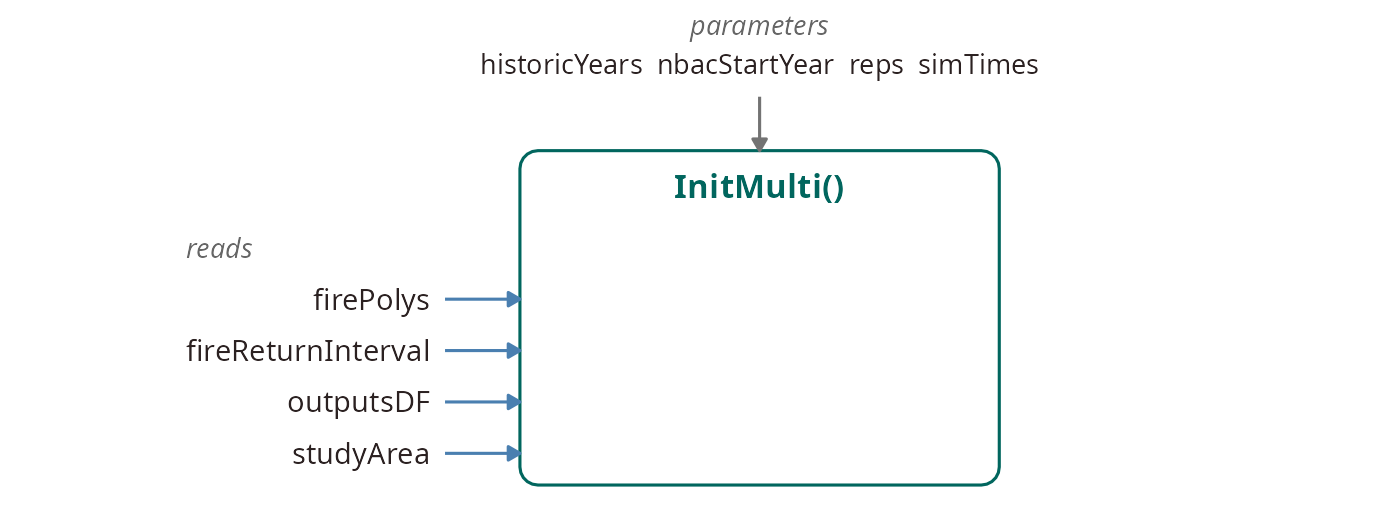
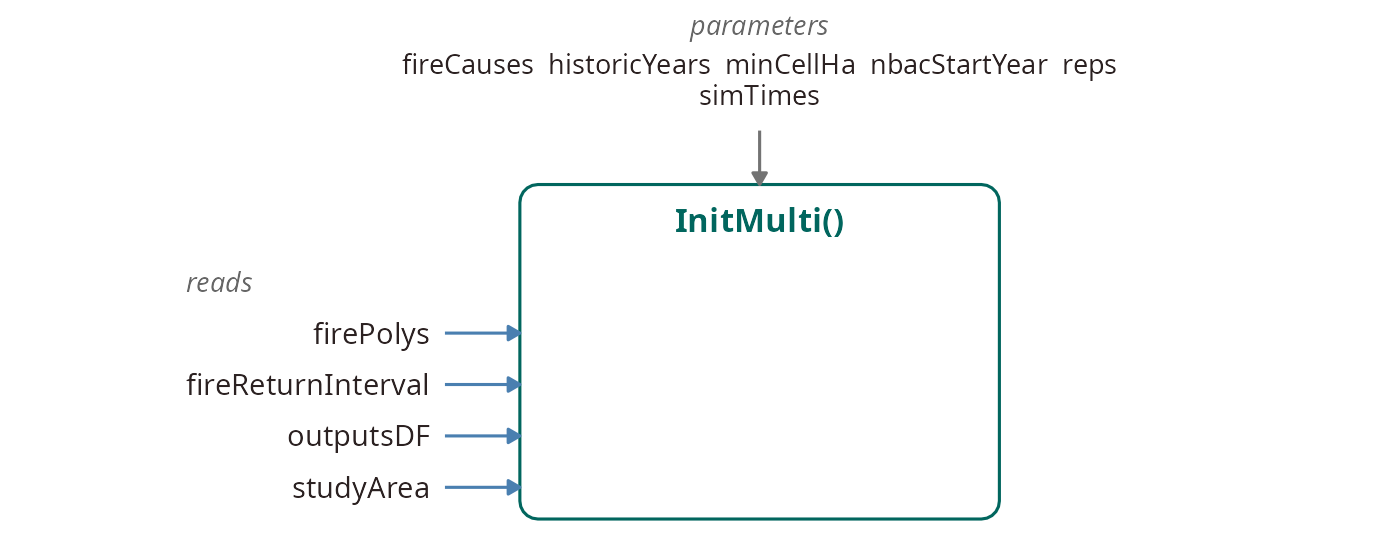
Re-build burnSummaries.Rmd

diff --git a/burnSummaries.md b/burnSummaries.md
@@ -1,6 +1,6 @@
 ---
 title: "burnSummaries Manual"
-subtitle: "v.1.1.0.9005"
+subtitle: "v.1.1.0.9009"
 date: "Last updated: 2026-11-25"
 output:
   bookdown::html_document2:
@@ -32,7 +32,7 @@ always_allow_html: true
 
 
 
-[![module-version-Badge](figures/moduleVersionBadge.png)](https://github.com/PredictiveEcology/burnSummaries/commit/7cccf15d021acf1ad8359c7f909a8494c7efa797)
+[![module-version-Badge](figures/moduleVersionBadge.png)](https://github.com/PredictiveEcology/burnSummaries/commit/327110edb5d1117a2833e338ad5bb6b47e482879)
 
 [![Issues-badge](figures/issuesBadge.png)](https://github.com/PredictiveEcology/burnSummaries/issues)
 
@@ -186,6 +186,15 @@ In multi mode, `reps` lists the replicates, `simTimes` gives the start and end o
    <td style="text-align:left;"> TRUE </td>
   </tr>
   <tr>
+   <td style="text-align:left;"> fireCauses </td>
+   <td style="text-align:left;"> character </td>
+   <td style="text-align:left;">  </td>
+   <td style="text-align:left;"> NA </td>
+   <td style="text-align:left;"> NA </td>
+   <td style="text-align:left;"> (multi mode) cause groups of the observed fires the historic burn map and the observed row of the fire regime table count, any of 'natural', 'unknown', 'human' and 'other' (`fireregimetools::fire_cause_group()` says which NBAC `FIRECAUS` and NFDB `CAUSE` values are which). `NULL` (default) keeps every cause; set it to the causes the fire model is fitted to, e.g. `c('natural', 'unknown')` for fireSense. Prescribed burns are always left out. </td>
+   <td style="text-align:left;"> TRUE </td>
+  </tr>
+  <tr>
    <td style="text-align:left;"> fireTimestep </td>
    <td style="text-align:left;"> integer </td>
    <td style="text-align:left;"> 1 </td>
@@ -210,6 +219,15 @@ In multi mode, `reps` lists the replicates, `simTimes` gives the start and end o
    <td style="text-align:left;"> NA </td>
    <td style="text-align:left;"> NA </td>
    <td style="text-align:left;"> use 'single' to run part of a simulation; use 'multi' to run as part of postprocessing multiple runs. </td>
+   <td style="text-align:left;"> TRUE </td>
+  </tr>
+  <tr>
+   <td style="text-align:left;"> minCellHa </td>
+   <td style="text-align:left;"> numeric </td>
+   <td style="text-align:left;"> 100 </td>
+   <td style="text-align:left;"> 0 </td>
+   <td style="text-align:left;"> NA </td>
+   <td style="text-align:left;"> (multi mode) smallest cell (ha) of the two mean annual burn maps. Fire perimeters are only meaningful at about 100 ha, so both maps are aggregated from the grid of `flammableMap` by the smallest whole factor whose cell is at least this large (240 m cells: factor 5, 1.2 km, 144 ha). Values are the mean annual share of the cell's burnable area burned. </td>
    <td style="text-align:left;"> TRUE </td>
   </tr>
   <tr>
@@ -246,7 +264,7 @@ In multi mode, `reps` lists the replicates, `simTimes` gives the start and end o
    <td style="text-align:left;"> NA </td>
    <td style="text-align:left;"> NA </td>
    <td style="text-align:left;"> Directory specifying the location of the simulation outputs. </td>
-   <td style="text-align:left;"> TRUE </td>
+   <td style="text-align:left;"> FALSE </td>
   </tr>
   <tr>
    <td style="text-align:left;"> simTimes </td>
@@ -494,7 +512,7 @@ In single mode, into `outputPath(sim)`:
 
 In multi mode, into `outputPath(sim)`:
 
-- `meanAnnualCumulBurnMap.tif` and `meanAnnualCumulBurnMapHistoric.tif`: the simulated and observed mean annual burn maps;
+- `meanAnnualCumulBurnMap.tif` and `meanAnnualCumulBurnMapHistoric.tif`: the simulated and observed mean annual share of each cell's burnable area burned, on the grid of `flammableMap` aggregated by the smallest whole factor whose cell is at least `minCellHa` (default 100 ha; 240 m cells give factor 5, 1.2 km, 144 ha). A cell with no burnable fine cell is `NA`. The observed map counts each year once per cell (a year's perimeters are overlaid), without prescribed burns, and, when `fireCauses` is set, only the fires of those causes (default: every cause);
 - `burnSummaries_fireSizes_allReps.csv`: the fire sizes of all replicates;
 - `burnSummaries_fireRegime.csv`: the number of fires, area burned per year and largest fire, for each replicate and the observed record;
 - `burnSummaries_fireBlocks.csv`: the number of fires and area burned in each block of `summaryInterval` years, for each replicate.
